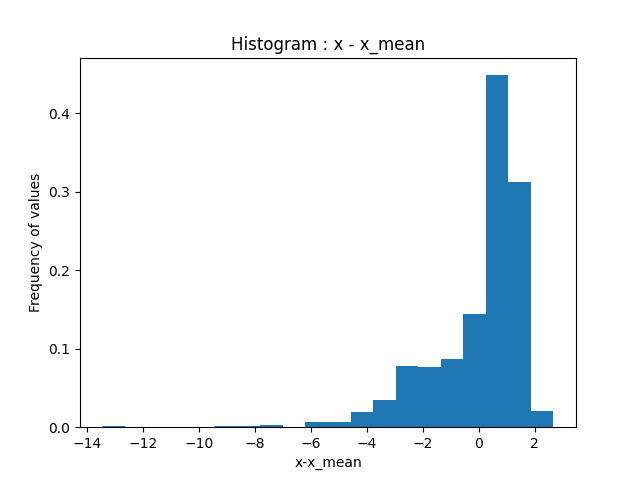
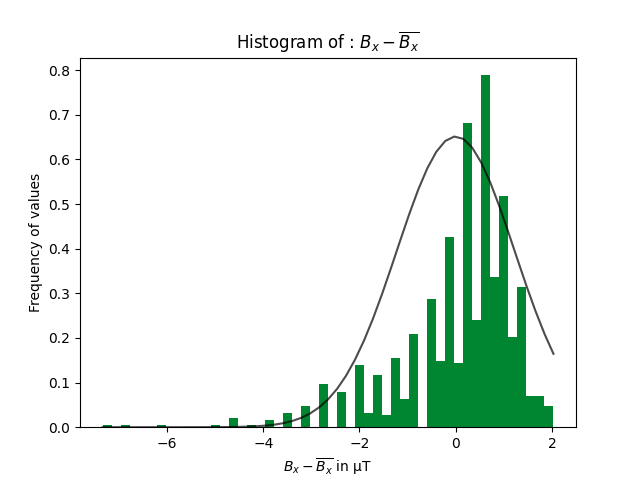
task_1_update

diff --git a/Module_2/Task_1/task1.py b/Module_2/Task_1/task1.py
@@ -2,6 +2,7 @@ import serial
 import time
 import matplotlib.pyplot as plt
 import numpy as np
+from scipy.stats import norm
 
 x = input()
 
@@ -73,24 +74,33 @@ else:
 
 
 plt.figure(1)
-_, bins,_ = plt.hist(mag_data_X_mean_sub , bins=20 , density=True)
-plt.xlabel('x-x_mean')
+_, bins,_ = plt.hist(mag_data_X_mean_sub , bins=50 , density=True, align='mid' , color='#008631')
+m, s = norm.fit(mag_data_X_mean_sub)
+p = norm.pdf(bins, m, s) * 2
+plt.plot(bins, p, 'k', alpha=.7)
+plt.xlabel(r'$B_x-\overline{B_x}$' + u" in \u03bcT")
 plt.ylabel('Frequency of values')
-plt.title('Histogram : x - x_mean')
+plt.title(r'Histogram of : $B_x-\overline{B_x}$')
 plt.savefig('hist_xsubt')
 
 plt.figure(2)
-_, bins,_ =plt.hist(mag_data_Y_mean_sub , bins=20 , density=True)
-plt.xlabel('y-y_mean')
+_, bins,_ =plt.hist(mag_data_Y_mean_sub , bins=50 , density=True ,  color='#008631')
+m, s = norm.fit(mag_data_Y_mean_sub)
+p = norm.pdf(bins, m, s) * 4.5
+plt.plot(bins, p, 'k', alpha=.7)
+plt.xlabel(r'$B_y-\overline{B_y}$' + u" in \u03bcT")
 plt.ylabel('Frequency of values')
-plt.title('Histogram : y - y_mean')
+plt.title(r'Histogram of : $B_y-\overline{B_y}$')
 plt.savefig('hist_ysubt')
 
 plt.figure(3)
-_, bins,_ =plt.hist(mag_data_Z_mean_sub , bins=25 , density=True)
-plt.xlabel('z-z_mean')
+_, bins,_ =plt.hist(mag_data_Z_mean_sub , bins=50 , density=True ,  color='#008631')
+m, s = norm.fit(mag_data_Z_mean_sub)
+p = norm.pdf(bins, m, s) * 3.5
+plt.plot(bins, p, 'k', alpha=.7)
+plt.xlabel(r'$B_z-\overline{B_z}$' + u" in \u03bcT")
 plt.ylabel('Frequency of values')
-plt.title('Histogram : z - z_mean')
+plt.title(r'Histogram of : $B_z-\overline{B_z}$')
 plt.savefig('hist_zsubt')
 
 range = (np.arange(0 , (mag_data_X.size*100) , 100))/1000
@@ -100,8 +110,8 @@ plt.plot(range , mag_data_X , color = 'green')
 plt.plot(range , mag_data_Y ,color = 'blue' )
 plt.plot(range , mag_data_Z , color = 'red')
 plt.xlabel('Time in s')
-plt.ylabel('-')
-plt.title('-')
+plt.ylabel('Magnetic flux in ' + u" in \u03bcT" )
+plt.title('Magnetic Flux readings')
 plt.legend(["x", "y" ,"z"] , loc="upper right")
 plt.savefig('xyz_data')
 
